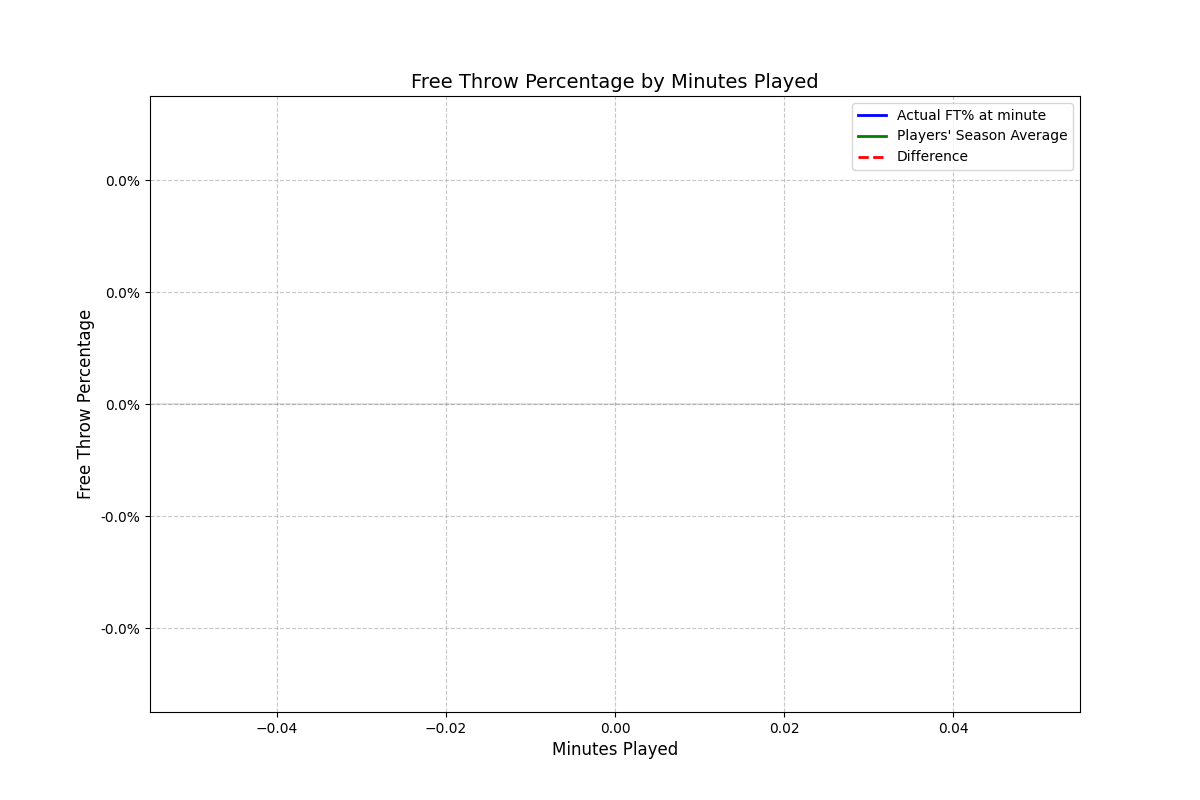
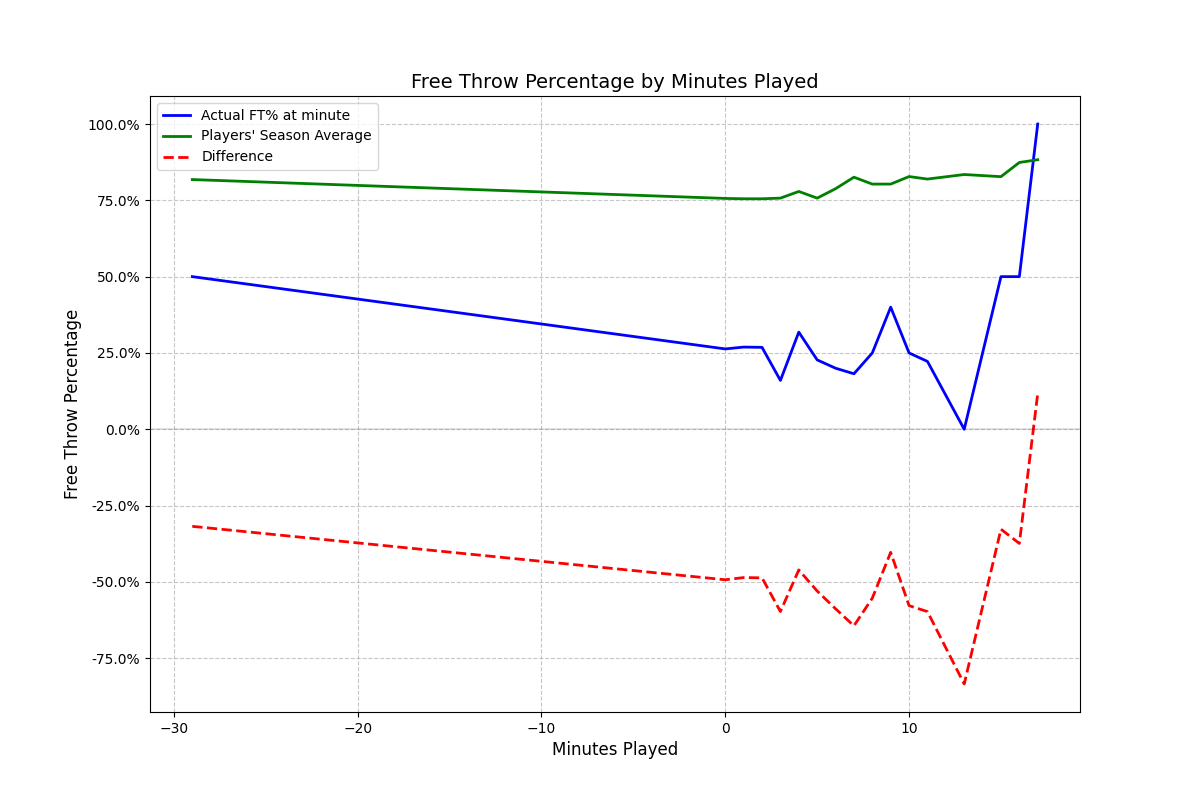
graphing working, but minutes played are negative for some reason

diff --git a/dataProcessor.py b/dataProcessor.py
@@ -84,7 +84,7 @@ class FreeThrowAnalyzer:
 
                 playersThatSubbedOut.add(desParsed2[1])
                 
-                player_entry_times[player_in] = self.calculateConvertedIGT(play.get('remaining_seconds_in_period'), play.get('period'))
+                player_entry_times[player_in] = float(self.calculateConvertedIGT(play.get('remaining_seconds_in_period'), play.get('period')))
                 #calculateConvertedIGT will convert from remaining seconds in period + quarter to current minute in game
                         
             # Track free throws
@@ -98,19 +98,19 @@ class FreeThrowAnalyzer:
                     continue #we only want to track the first stretch of playing time
                 
                 if player not in player_entry_times: #they were a starter
-                    player_entry_times[player] = "0" #they came into the game at 0 minutes
+                    player_entry_times[player] = float(0) #they came into the game at 0 minutes
 
-                entry_time = player_entry_times.get(player)
+                entry_time = float(player_entry_times.get(player))
 
-                print("entry time:" + str(entry_time))
+                print("entry time: " + str(entry_time))
 
                 print("Converted time at freethrow: " + str(self.calculateConvertedIGT(play.get('remaining_seconds_in_period'), play.get('period'))))
 
                 # exit()
 
-                minutes_played = (self.calculateConvertedIGT(play.get('remaining_seconds_in_period'), play.get('period')) - float(entry_time))
+                minutes_played = float((float(self.calculateConvertedIGT(play.get('remaining_seconds_in_period'), play.get('period'))) - float(entry_time)))
                 
-                curr_minute = math.floor(minutes_played)
+                curr_minute = int(math.floor(minutes_played))
 
                 if curr_minute not in self.minutes:
                     if 'makes' in play['description']: #the player made the freethrow, they're now 1 for 1
@@ -126,6 +126,8 @@ class FreeThrowAnalyzer:
                     else: #the freethrow was missed
                         self.minutes[curr_minute][1] += 1 #adds a miss
                         self.minutes[curr_minute][2].add(player)
+            # exit()
+            
 
     def calculateConvertedIGT(self, remainingSecondsInQuarter, quarter): #remaining seconds, quarter (1, 2, 3, 4)
         # print("remaining seconds: " + str(remainingSecondsInQuarter))
@@ -136,13 +138,13 @@ class FreeThrowAnalyzer:
         minutesPlayedInQuarter = 12 - remainingMinutes
 
         if str(quarter) == "1":
-            return minutesPlayedInQuarter
+            return float(minutesPlayedInQuarter)
         elif str(quarter) == "2":
-            return 12 + minutesPlayedInQuarter
+            return float(12 + minutesPlayedInQuarter)
         elif str(quarter) == "3":
-            return 24 + minutesPlayedInQuarter
+            return float(24 + minutesPlayedInQuarter)
         elif str(quarter) == "4":
-            return 36 + minutesPlayedInQuarter
+            return float(36 + minutesPlayedInQuarter)
 
 
 
@@ -293,12 +295,13 @@ class FreeThrowAnalyzer:
         #could maybe parse the above url to get seaosn stats (more specifically yearly ft % for specific players in 2023-24)
 
 
-        for i in range(len(self.minutes)): #minute would be i (index + 1)
-            minuteAverage = self.minutes[i+1][0] / self.minutes[i+1][0] + self.minutes[i+1][1]  #total made / total made + total missed
-            atMinuteAverages[i+1] = minuteAverage * 100 #to get percentage
+        for key in self.minutes: #minute would be i (index + 1)
+            #self.minutes[i+1] may not be the first minute, ex if 1 was not in it, TODO: need to change this
+            minuteAverage = self.minutes[key][0] / (self.minutes[key][0] + self.minutes[key][1])  #total made / total made + total missed
+            atMinuteAverages[key] = minuteAverage * 100 #to get percentage
 
             totalPercentage = float(0)
-            players = list(self.minutes[i+1][2])
+            players = list(self.minutes[key][2])
             totalNumberPlayers = len(players)
             for i in range(totalNumberPlayers): #looping through set of players that shot fts at each minute
                 currPlayerName = players[i] #curr player
@@ -310,7 +313,7 @@ class FreeThrowAnalyzer:
 
             averageFTPercentageForAllPlayersAtMinute = totalPercentage / totalNumberPlayers
 
-            atMinuteYearlyAverages[i+1] = averageFTPercentageForAllPlayersAtMinute
+            atMinuteYearlyAverages[key] = averageFTPercentageForAllPlayersAtMinute
         
         return [atMinuteAverages, atMinuteYearlyAverages]
     
